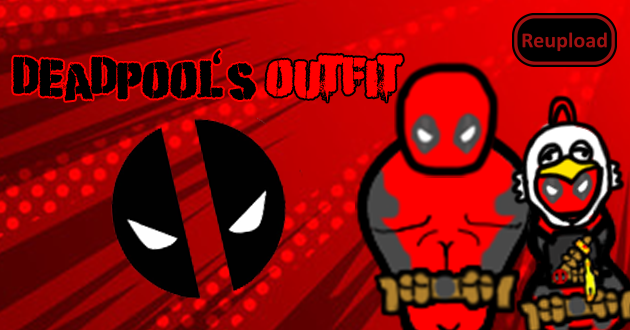
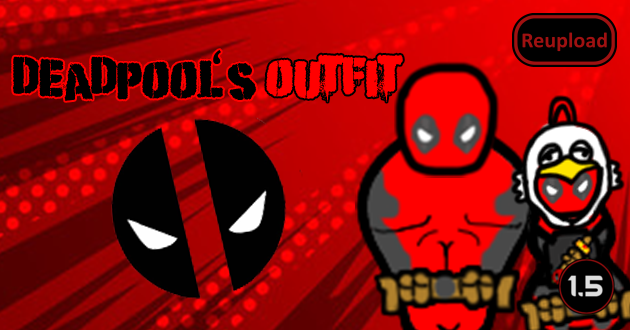
Mod updated for 1.5 and passed autotests

Changed region(s): [[0.8746, 0.7879, 0.9952, 0.9697]]

diff --git a/README.md b/README.md
@@ -53,11 +53,13 @@ Disney - For not suing me yet
 
 -  See if the the error persists if you just have this mod and its requirements active.
 -  If not, try adding your other mods until it happens again.
--  Post your error-log using https://steamcommunity.com/workshop/filedetails/?id=818773962]HugsLib and command Ctrl+F12
+-  Post your error-log using https://steamcommunity.com/workshop/filedetails/?id=818773962]HugsLib or the standalone https://steamcommunity.com/sharedfiles/filedetails/?id=2873415404]Uploader and command Ctrl+F12
 -  For best support, please use the Discord-channel for error-reporting.
 -  Do not report errors by making a discussion-thread, I get no notification of that.
 -  If you have the solution for a problem, please post it to the GitHub repository.
+-  Use https://github.com/RimSort/RimSort/releases/latest]RimSort to sort your mods
 
 
 
+https://steamcommunity.com/sharedfiles/filedetails/changelog/2602834386]![Image](https://img.shields.io/github/v/release/emipa606/DeadpoolsOutfit?label=latest%20version&style=plastic&color=9f1111&labelColor=black)
 
